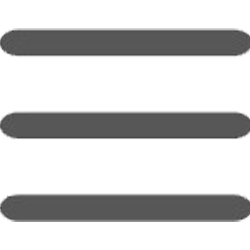
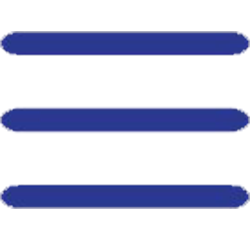
swap nanotech with northtech

diff --git a/src/assets/mtlcmtx/Database.js b/src/assets/mtlcmtx/Database.js
@@ -38,8 +38,8 @@ import arrowLeft from './img/arrow/arrow-left.png'
 import arrowRight from './img/arrow/arrow-right.png'
 
 // shape images
-import cornerShape from './img/corner-shape.png'
-import mockupShape from './img/mockup-shape.png'
+import cornerShape from './img/shape-home.png'
+
 
 // footer images
 import buyNow from './img/footer/buy-now.png'
@@ -97,9 +97,9 @@ const contentFixData = [
         content: "QUICK_TURNAROUND_CONTENT",
     },
     {
-        title: "DAY_180_WARRANTY",
-        content: "DAY_180_WARRANTY_CONTENT",
-    },
+        title: "MONTH_6_WARRANTY",
+        content: "MONTH_6_WARRANTY_CONTENT",
+    }
 ]
 
 const popularCardData = [
@@ -138,17 +138,17 @@ const devicelistData = [
 ]
 
 const colorPalle = {
-    orange: '#00B0F0',
-    themeColor: '#606163',
-    underLineCol: '#00B0F0',
-    priceCol: '#606163',
-    repairButtonCol: '#00B0F0',
-    nextButtonCol: '#606163',
-    repairChooseItemCol: '#00B0F0',
-    repairBooktimeCol: '#00B0F0',
-    textThemeCol: '#00B0F0',
-    heartCol: '#606163',
-    chatBgCol: '#00B0F0'
+    orange: '#F67500',
+    themeColor: '#2B388F',
+    underLineCol: '#2B388F',
+    priceCol: '#F67500',
+    repairButtonCol: '#2B388F',
+    nextButtonCol: '#2B388F',
+    repairChooseItemCol: '#2B388F',
+    repairBooktimeCol: '#2B388F',
+    textThemeCol: '#2B388F',
+    heartCol: '#2B388F',
+    chatBgCol: '#2B388F'
 }
 
 const navItemsData = [
@@ -160,9 +160,9 @@ const navItemsData = [
 
 const brandItemsData = {
     left: ["BUSINESS", "FINANCING"],
-    right: {ip: "306.569.6266", en: "ENGLISH", log: "LOG_IN"},
+    right: {ip: "819.700.2221", en: "ENGLISH", log: "LOG_IN"},
     brandCol: 'white',
-    brandThemeCol: '#606163',
+    brandThemeCol: '#2B388F',
     selectOption: ['ENGLISH', 'FRENCH']
 }
 
@@ -208,11 +208,11 @@ const mobileNavItemData = {
 
 const userNavItemData = [
     {text: 'MY_ACCOUNT', href: '#'},
-    {text: 'TRACK_REPAIR', href: '/repair'},
-    {text: 'FILE_A_CLAIM', href: '#'},
+    {text: 'TRACKING', href: '#'},
     {text: 'ORDERS', href: '#'},
     {text: 'TRADE_IN', href: '#'},
 ]
+
 
 const arrowData = {
     arrowLeft: arrowLeft,
@@ -220,8 +220,8 @@ const arrowData = {
 }
 
 const shapeData = {
-    cornerShape: {img: cornerShape, width: ''},
-    mockupShape: {img: mockupShape, width: ''}
+    cornerShape: {img: cornerShape, width: '100vw'},
+    mockupShape: ''
 }
 
 const footerImageData = {
@@ -240,7 +240,7 @@ const homeTextData = {
     },
     section1: {
         title: ['TRADE_REPAIR_BUY_OR_SELL', 'YOUR_MOBILE_DEVICE'],
-        subtitle: 'SASKATCHEWAN_MOBILE_DEVICE_SPECIALISTS',
+        subtitle: 'YOUR_AFFORDABLE_SOLUTIONS_FOR_TECHNOLOGY_IN_THE_NORTH',
         searchPlaceholder: 'FIND_YOUR_DEVICE'
     },
     section2: {
@@ -250,10 +250,10 @@ const homeTextData = {
         title: 'POPULAR_DEVICES',
         subtitle: ['BUY_NOW_PAY_LATER', 'WHATEVER_WORKS_FOR_YOU'],
         content: 'POPULAR_DEVICES_CONTENT',
-        color: 'white'
+        color: 'black'
     },
     section4: {
-        title: 'WELCOME_NANOTECH',
+        title: 'WELCOME_NORTHTECH',
         btnTitle: 'OUR_QUALITY_CHARTER'
     },
     section5: {
@@ -266,7 +266,7 @@ const homeTextData = {
         btnTitle: "INSURE_MY_DEVICE",
     },
     section6: {
-        title: 'SEE_WHY_CUSTOMERS_LOVE_NANOTECH',
+        title: 'SEE_WHY_CUSTOMERS_LOVE_NORTHTECH',
         subtitle: 'VIEW_MORE',
         review: [
             {
@@ -292,19 +292,19 @@ const homeTextData = {
         ]
     },
     footer: {
-        title: { text: '', color: '' },
+        title: { text: 'GIVING_BACK_TO_NORTH', color: 'white' },
         gridVal: {
-            mainGrid: [7, 5],
-            subGrid: [6, 6]
+            mainGrid: [4, 8],
+            subGrid: [11, 1]
         },
         subContent: [
-            {title: 'REGINA_NORTH', content: '1 (306) 569 6266 | info@nanotechrepair.ca 2743 Avonhurst Drive Regina, SK'},
-            {title: 'REGINA_EAST', content: '1 (306) 757 6266 | info@nanotechrepair.ca J2 2095 Prince of Wales Regina, SK'}
+            {title: '', content: ''},
+            {title: '', content: ''}
         ],
-        contentSubTitle: 'SASKATOON_NORTH',
+        contentSubTitle: '',
         content: [
-            '1 (306) 384 6266 | saskatoon@nanotechrepair.ca 9, 834 – 51st Street Saskatoon, SK',
-            'NANOTECH_FOOTER_CONTENT_TWO'
+            '(819) 700-2211 | info@northtechsolutions.ca 208 Sinaa, Iqaluit, NU',
+            'NORTHTECH_FOOTER_CONTENT_TWO'
         ],
         footerLink: [
             {
@@ -371,13 +371,13 @@ const repairData = {
             {
                 img: receiveDevice,
                 subtitle: 'RECEIVE_YOUR_DEVICE',
-                content: 'NANOTECH_RECEIVE_YOUR_DEVICE_CONTENT',
+                content: 'NORTHTECH_RECEIVE_YOUR_DEVICE_CONTENT',
             }
         ]
     },
     section3: {
         title: 'FROM_NEW_TO_RECONDITIONED',
-        content: 'NANOTECH_FROM_NEW_TO_RECONDITIONED_CONTENT',
+        content: 'NORTHTECH_FROM_NEW_TO_RECONDITIONED_CONTENT',
         children: [
             {
                 subtitle: 'NEW',

diff --git a/src/assets/mtlcmtx/styles/components/chat-component.css b/src/assets/mtlcmtx/styles/components/chat-component.css
@@ -37,11 +37,11 @@
 .rcw-launcher {
   right: 310px;
   position: relative;
-  background-color:#00B0F0;
+  background-color:#2B388F;
 }
 
 .rcw-conversation-container .rcw-header {
-  background-color: #92daf5;
+  background-color:#57609e;
   padding: 0px 0px 5px;
 }
 
@@ -68,12 +68,12 @@
  
 /* Handle */
 .rcw-messages-container::-webkit-scrollbar-thumb {
-  background: #92daf5;
+  background: #57609e;
 }
 
 /* Handle on hover */
 .rcw-messages-container::-webkit-scrollbar-thumb:hover {
-  background:#00B0F0;
+  background:#2B388F;
 }
 
 .rcw-conversation-container .avatar {
@@ -104,7 +104,7 @@
     border-radius: 10px 10px 0 0;
   }
   .rcw-conversation-container .rcw-close-button {
-    background-color:#92daf5;
+    background-color:#57609e;
   }
   .rcw-conversation-container .rcw-title {
     padding: 15px 0;

diff --git a/src/assets/mtlcmtx/styles/footer.css b/src/assets/mtlcmtx/styles/footer.css
@@ -1,5 +1,5 @@
 .footer {
-  padding: 190px 20px 30px;
+  padding: 750px 20px 30px;
   position: relative;
   z-index: 1;
   overflow: hidden;
@@ -82,12 +82,15 @@
   margin: 20px 0;
 }
 
-.footer-container-special {
-  display: none;
+.footer-title {
+  font-size: 45px !important;
+  font-weight: 800 !important;
+  line-height: 1.2 !important;
+  position: absolute;
+  top: 350px;
+  right: 200px;
 }
 
-.footer-subContent-title {
-  font-weight: bold;
-  margin-bottom: -20px;
-  margin-top: 25px;
+.footer-container-special {
+  display: none;
 }

diff --git a/src/assets/mtlcmtx/styles/responsive.css b/src/assets/mtlcmtx/styles/responsive.css
@@ -268,7 +268,7 @@
     font-size: 20px !important;
   }
   .section1-subtitle, .card-mobile > p, .card-fix p, .card-why-customer > p, .score-div > p, 
-  .device-list-grid, .footer_link > li, .footer-subContent-title {
+  .device-list-grid, .footer_link > li {
     font-size: 12px !important; 
   }
   .button {
@@ -316,7 +316,7 @@
 
 @media (max-width: 380px) {
   .container-header > a > img {
-    height: 40px;
+    height: 30px;
   }
   .avatar-div > img {
     height: 20px;

diff --git a/src/assets/mtlcmtx/styles/pages/home.css b/src/assets/mtlcmtx/styles/pages/home.css
@@ -166,6 +166,7 @@
 .section4-button {
   max-width: 316px;
   width: 100%;
+  margin-top: 2rem;
 }
 
 .section4-title {
@@ -224,8 +225,7 @@ p {
   padding-top: 1rem;
 }
 .sec6-container {
-  padding-top: 70px;
-  padding-bottom: 70px;
+  padding-top: 4rem;
 }
 .sec6-card {
   margin: auto;
@@ -267,12 +267,6 @@ p {
 @media (max-width: 960px) {
   .sec6-card {
     max-width: 500px;
-  }
-}
-
-@media (max-width: 600px) {
-  .sec6-container {
-    padding-bottom: 0px;
   }
 }
 

diff --git a/src/assets/mtlcmtx/styles/header.css b/src/assets/mtlcmtx/styles/header.css
@@ -23,7 +23,7 @@
   margin: 0 auto;
   left: 0px;
   top: 0px;
-  background-color: #054DFA;
+  background-color: #2B388F;
 }
 
 .container-header {
@@ -41,8 +41,7 @@
 }
 
 .container-header > a > img {
-  height: 55px;
-  margin-top: 10px;
+  height: 50px;
 }
 
 .container-header .text-1 {

diff --git a/src/assets/mtlcmtx/styles/components/search.css b/src/assets/mtlcmtx/styles/components/search.css
@@ -17,7 +17,7 @@
 }
 
 .search-input {
-    width: 100% !important;
+    width: 100%;
     margin-left: 5px;
 }
 
@@ -32,4 +32,5 @@
     border: 1px solid rgba(0,0,0,0.1);
     outline: none;
     background-color: white;
+    font-size: 15px !important;
 }

diff --git a/src/assets/mtlcmtx/styles/components/custom-select.css b/src/assets/mtlcmtx/styles/components/custom-select.css
@@ -13,3 +13,7 @@
 .MuiOutlinedInput-input {
   padding: 10px 25px !important;
 }
+
+.custom-select {
+  font-size: 15px !important;
+}

diff --git a/src/assets/mtlcmtx/styles/components/card-why-customer.css b/src/assets/mtlcmtx/styles/components/card-why-customer.css
@@ -32,5 +32,5 @@
   margin-bottom: 20px;
 }
 .MuiRating-root {
-  color:#00B0F0 !important;
+  color: #F36B26 !important;
 }

diff --git a/src/assets/mtlcmtx/styles/components/logo.css b/src/assets/mtlcmtx/styles/components/logo.css
@@ -1,7 +1,7 @@
 .logo-header {
-  height: 50px;
+  height: 70px;
 }
 
 .logo-footer {
-  height: 80px;
+  height: 70px;
 }
